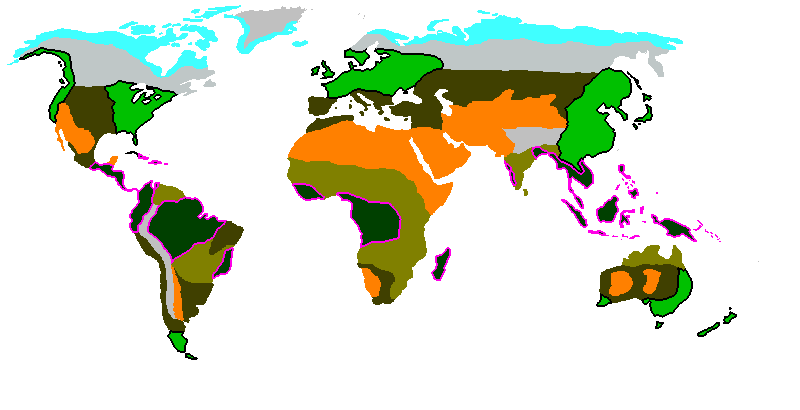
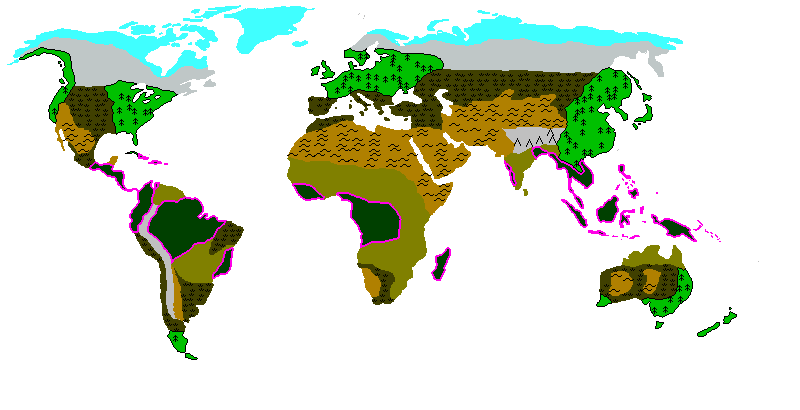
Added Glyphs to biome mapping

diff --git a/src/biome/mod.rs b/src/biome/mod.rs
@@ -4,14 +4,22 @@ use crate::color::Color;
 use std::ffi::OsStr;
 use std::io::Read;
 use crate::image::Image;
+use std::collections::HashMap;
+use std::path::{PathBuf, Path};
+
+mod glyphs;
 
 struct BiomeSettings {
     color: Color,
     outline_color: Color,
     outline_thickness: u64,
+    glyph_image: Option<PathBuf>,
+    glyph_density: usize,
+    glyph_threshold: usize,
 }
 
 pub struct Configuration {
+    glyphs: HashMap<PathBuf, Image>,
     mapping: Vec<(Color, BiomeSettings)>,
 }
 
@@ -31,7 +39,7 @@ impl Configuration {
     fn from_json(json: JsonValue) -> Result<Self, String> {
         use std::str::FromStr;
 
-        let mut configuration = Configuration { mapping: Vec::new() };
+        let mut configuration = Configuration { glyphs: HashMap::new(), mapping: Vec::new() };
 
         for (key, settings) in json.entries() {
             let key_color = match Color::from_str(key) {
@@ -60,10 +68,47 @@ impl Configuration {
                 _ => 0,
             };
 
+            let glyph_image = match settings["glyph_image"].as_str() {
+                Some(s) => {
+                    let as_path = PathBuf::from(s);
+                    if !configuration.glyphs.contains_key(&as_path) {
+                        if !as_path.exists() {
+                            return Err(format!("Image file: {} does not exist", as_path.to_str().unwrap()));
+                        }
+
+                        let image = match Image::from_file(s) {
+                            Ok(i) => i,
+                            Err(m) => return Err(format!("Could not load glyph {} because {}", as_path.to_str().unwrap(), m)),
+                        };
+
+                        configuration.glyphs.insert(as_path.clone(), image);
+                    }
+
+                    Some(as_path)
+                }
+                None if settings.has_key("glpyh_image") => return Err(String::from("Non string/filepath given for glyph image")),
+                _ => None,
+            };
+
+            let glyph_density = match settings["glyph_density"].as_u64() {
+                Some(v) => v as usize,
+                None if settings.has_key("glyph_density") => return Err(String::from("Invalid data for glyph density")),
+                _ => 1,
+            };
+
+            let glyph_threshold = match settings["glyph_threshold"].as_u64() {
+                Some(v) => v as usize,
+                None if settings.has_key("glyph_threshold") => return Err(String::from("Invalid data for glyph density")),
+                _ => 100,
+            };
+
             configuration.mapping.push((key_color, BiomeSettings {
                 color,
                 outline_color,
                 outline_thickness,
+                glyph_image,
+                glyph_density,
+                glyph_threshold,
             }));
         }
 
@@ -72,10 +117,11 @@ impl Configuration {
         return Ok(configuration);
     }
 
-    pub fn generate_layer(&self, biome_map: Image) -> Result<Image, String> {
+    pub fn generate_layer(&self, biome_map: &Image) -> Result<Image, String> {
         let width = biome_map.width();
         let height = biome_map.height();
         let mut layer = Image::new(width, height);
+        let mut glyph_layer = Image::new(width, height);
 
         for entry in &self.mapping {
             let mut biome = Image::new(width, height).fill(Color::from([0, 0, 0, 0]));
@@ -108,8 +154,20 @@ impl Configuration {
                 biome = outlined;
             }
 
+            if entry.1.glyph_image.is_some() {
+                let glyph = entry.1.glyph_image.clone().unwrap();
+                let glyph = self.glyphs.get(&glyph).unwrap();
+
+                let distrib = glyphs::GlyphDistribution::new([52; 32], entry.1.glyph_density, entry.1.glyph_threshold, glyph, &biome_map, entry.0);
+                let layer = distrib.to_layer();
+
+                glyph_layer.overlay(&layer);
+            }
+
             layer.overlay(&biome)?;
         }
+
+        layer.overlay(&glyph_layer);
 
         return Ok(layer);
     }
@@ -129,7 +187,7 @@ mod test {
         let configuration = Configuration::from_file("samples/biomes.json").unwrap();
         let map = Image::from_file("samples/biomes.png").unwrap();
 
-        let biome_map = configuration.generate_layer(map).unwrap();
+        let biome_map = configuration.generate_layer(&map).unwrap();
 
         biome_map.write_to_file("samples/biome_map.png").unwrap();
     }

diff --git a/src/biome/glyphs.rs b/src/biome/glyphs.rs
@@ -1,0 +1,105 @@
+use crate::image::Image;
+use std::collections::HashSet;
+use rand::rngs::SmallRng;
+use rand::{SeedableRng, RngCore};
+use crate::color::Color;
+use crate::topography::generate_contour_layer;
+use std::sync::{Arc, Mutex};
+
+const OVERLAP_PREVENTION: usize = 1;
+
+pub struct GlyphDistribution {
+    glyph: Image,
+    layer_size: (usize, usize),
+    locations: Vec<(usize, usize)>,
+}
+
+impl GlyphDistribution {
+    pub fn new(seed: [u8; 32], density: usize, threshold: usize, glyph: &Image, map: &Image, color: Color) -> Self {
+        let mut possible_locations = Vec::new();
+
+        let mut x = 0;
+        while x < map.width() {
+            let mut y = 0;
+            while y < map.height() {
+                possible_locations.push((x, y));
+                y += glyph.height() + glyph.height() / 2 + OVERLAP_PREVENTION;
+            }
+            x += glyph.width() + glyph.width() / 2 + OVERLAP_PREVENTION;
+        }
+
+        let mut rng = Arc::new(Mutex::new(SmallRng::from_seed(seed)));
+
+        possible_locations = possible_locations.into_iter()
+            // Apply random selection
+            .filter(|(x, y)| {
+                let r_value = rng.lock().unwrap().next_u32() as usize;
+                (r_value % 100) < density
+            })
+            // Remove locations not in biome
+            .filter(|(x, y)| {
+                map.pixel_at(*x as usize, *y as usize).unwrap() == color
+            })
+            // Wiggle the locations a small ammount
+            .map(|(x, y)| {
+                let r1 = (rng.lock().unwrap().next_u32() as usize % (glyph.width() - OVERLAP_PREVENTION)) as isize - glyph.width() as isize / 2;
+                let r2 = (rng.lock().unwrap().next_u32() as usize % (glyph.height() - OVERLAP_PREVENTION)) as isize - glyph.height() as isize / 2;
+                (x as isize + r1, y as isize + r2)
+            })
+            // Remove out of bounds locations and revert to usize
+            .filter(|(x, y)| *x > 0 && *y > 0)
+            .map(|(x, y)| (x as usize, y as usize))
+            // Remove glyphs which overlap with wrong biomes
+            .filter(|(x, y)| {
+                let gx = *x as isize;
+                let gy = *y as isize;
+
+                let mut total = 0;
+                let mut in_count = 0;
+                for x in 0..glyph.width() {
+                    for y in 0..glyph.height() {
+                        let map_pixel = map.pixel_at(
+                            (gx + x as isize - glyph.width() as isize / 2) as usize,
+                            (gy + y as isize - glyph.height() as isize / 2) as usize,
+                        ).unwrap();
+
+                        if glyph.pixel_at(x, y).unwrap() != Color::from([0, 0, 0, 0]) {
+                            if map_pixel == color {
+                                in_count += 1;
+                            }
+
+                            total += 1;
+                        }
+                    }
+                }
+
+                let ratio = in_count as f64 / total as f64;
+                return ratio >= (threshold as f64 / 100.0);
+            })
+            .collect();
+
+        return GlyphDistribution {
+            glyph: glyph.clone(),
+            layer_size: (map.width(), map.height()),
+            locations: possible_locations,
+        };
+    }
+
+    pub fn to_layer(&self) -> Image {
+        let mut layer = Image::new(self.layer_size.0, self.layer_size.1);
+        for location in &self.locations {
+            let x = match location.0.checked_sub(self.glyph.width() / 2) {
+                Some(v) => v,
+                None => continue,
+            };
+
+            let y = match location.1.checked_sub(self.glyph.height() / 2) {
+                Some(v) => v,
+                None => continue,
+            };
+
+            layer.stamp((x, y), &self.glyph);
+        }
+        return layer;
+    }
+}

diff --git a/src/image/mod.rs b/src/image/mod.rs
@@ -146,6 +146,28 @@ impl Image {
         return filtered;
     }
 
+    pub fn stamp(&mut self, pos: (usize, usize), stamp: &Image) {
+        for x in 0..stamp.width() {
+            for y in 0..stamp.height() {
+                let gx = x + pos.0;
+                let gy = y + pos.1;
+
+                if gx < 0 || gy < 0 || gx >= self.width || gy >= self.height {
+                    continue;
+                }
+
+                let top_color = stamp.pixel_at(x, y).unwrap();
+                let bottom_color = self.pixel_at(gx, gy).unwrap();
+
+                let factor = top_color[3] as f64 / u8::MAX as f64;
+
+                let mixed = Color::interpolate(bottom_color, top_color, factor);
+
+                self.set_pixel_at(gx, gy, mixed).unwrap();
+            }
+        }
+    }
+
     pub fn overlay(&mut self, top: &Image) -> Result<(), String> {
         if self.width != top.width || self.height != top.height {
             return Err(String::from("Images not the same size, cannot overlay"));

diff --git a/src/main.rs b/src/main.rs
@@ -1,4 +1,5 @@
 extern crate png;
+extern crate rand;
 extern crate json;
 
 pub mod color;

diff --git a/README.md b/README.md
@@ -14,26 +14,45 @@ Using the following biome bitmap of earth and the following json configuration f
 ```json
 {
   "#40ffff": {},
+
   "#00c000": {
-    "outline_thickness": 2
+    "outline_thickness": 1,
+    "glyph_image": "samples/tree_glyph.png",
+    "glyph_density": 75
   },
+
   "#004040": {
     "color": "00404080"
   },
-  "#404000": {},
-  "#ffff40": {
-    "color": "#ff8000"
+
+  "#404000": {
+    "glyph_image": "samples/grass_glyph.png",
+    "glyph_density": 95
   },
+
+  "#ffff40": {
+    "color": "#ff8000",
+    "glyph_image": "samples/sand_glyph.png",
+    "glyph_density": 50,
+    "glyph_threshold": 99
+  },
+
   "#004000": {
     "outline_thickness": 2,
     "outline_color": "#ff00e7"
   },
+
   "#808000": {},
-  "#c0c0c0": {}
+
+  "#c0c0c0": {
+    "glyph_image": "samples/peak_glyph.png",
+    "glyph_density": 90,
+    "glyph_threshold": 80
+  }
 }
 ```
 
-images such as this can be quickly produced. As you can see the shading of the biomes can be changed (including transparency) and the biomes may be outlined with different colors.
+images such as this can be quickly produced. As you can see the shading of the biomes can be changed (including transparency) and the biomes may be outlined with different colors. Furthermore some glyphs have been added to random spots in some biomes.
 
 ![Processed Biome Map of Earth](samples/biome_map.png)
 
